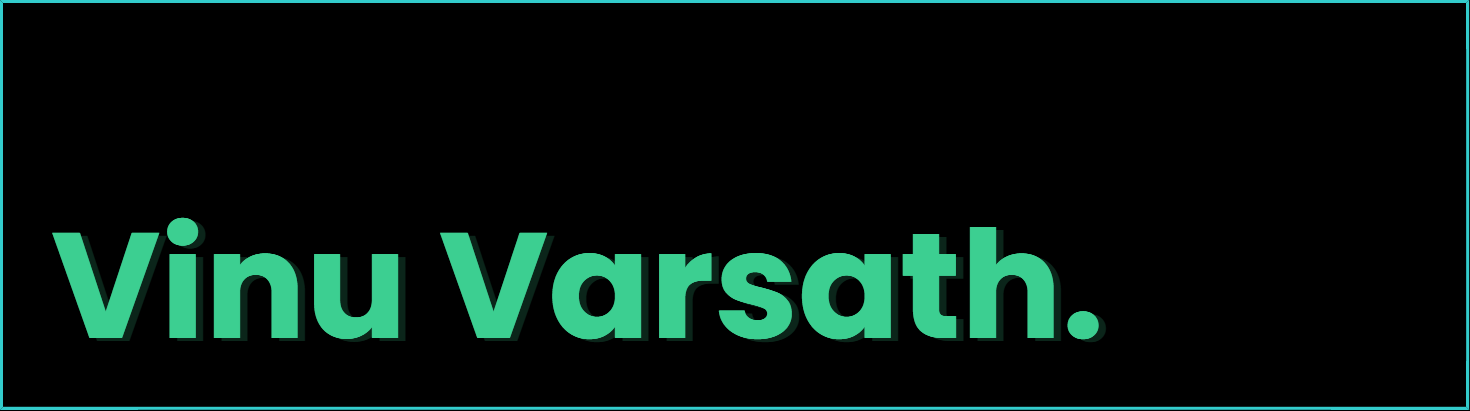
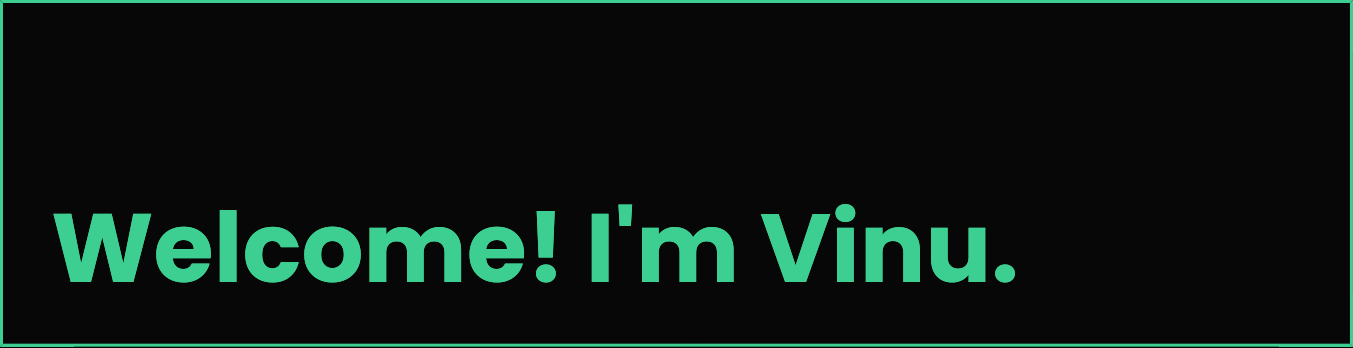
halfway commit

Changed region(s): [[0.031, 0.5172, 0.7761, 0.8333], [0.0, 0.0, 1.0, 1.0]]

diff --git a/README.md b/README.md
@@ -1,13 +1,20 @@
-# 👋 I'm [VINU](https://vinuxd.github.io) :D
+![banner](assets/banner.png)
 
-A tech enthusiast with a background in Electrical and Electronics Engineering and passionate on Embedded Systems and DSA.
-<br/>
+> A passionate Tech enthusiast and a Hobby developer with a background in Electronics Engineering.
 
-[![Tech Stack](https://skillicons.dev/icons?i=c,java,py,spring,md,regex,arduino,raspberrypi,firebase,mongodb,git,heroku,netlify,androidstudio,vscode,figma,&theme=dark&perline=7)](https://t.me/VinuXD)
+## 👨🏻💻 Tech Stack
 
-<a href=https://vinuxd.me><img src="https://github-readme-stats.vercel.app/api?username=vinuxd&hide=issues&show_icons=true&theme=chartreuse-dark&include_all_commits=true&count_private=true"/></a>
+Need help on your projects that matches my skills?
+</br>
+Feel free to reach me out on [Telegram](https://t.me/VinuXD).
+
+![Tech Stack](https://skillicons.dev/icons?i=arduino,autocad,aws,bash,c,devto,firebase,git,github,githubactions,heroku,html,java,linux,md,mongodb,netlify,obsidian,powershell,py,raspberrypi,redhat,redis,regex,spring,supabase,vercel,vscode&theme=dark&perline=7)
+
+## 📈 Github Stats
 
 <a href=https://vinuxd.me><img src="http://github-readme-streak-stats.herokuapp.com?user=vinuxd&theme=chartreuse-dark&hide_border=false&date_format=j%20M%5B%20Y%5D"/></a>
+
+<a href=https://vinuxd.me><img src="https://github-readme-stats.vercel.app/api?username=vinuxd&hide=issues&show_icons=true&theme=chartreuse-dark&include_all_commits=true&count_private=true"/></a>
 
 ## Recent Activity
 <!--RECENT_ACTIVITY:start-->
